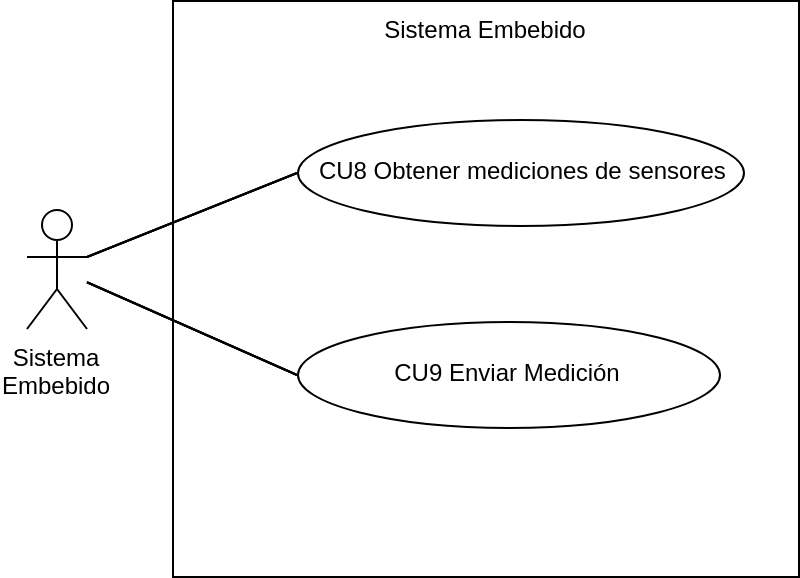
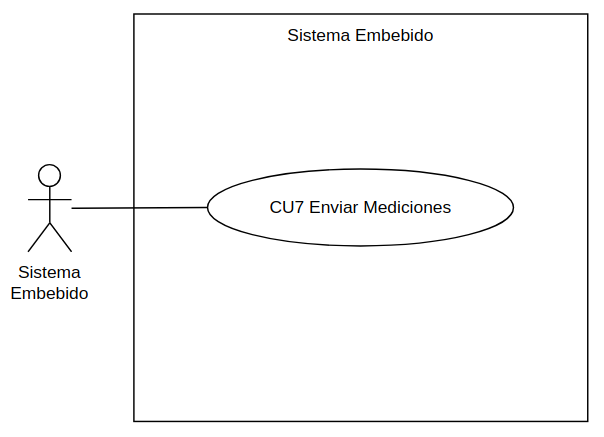
Actualizando documentación de módulo de comunicación 3G/4G y Análisis de aplicación móvil con cu e interfaces

diff --git a/C2-DT/ModeloComportamiento/AplicacionMovil/cu6/cu.tex b/C2-DT/ModeloComportamiento/AplicacionMovil/cu6/cu.tex
@@ -1,6 +1,6 @@
 \begin{UseCase}{CU6}{Consultar registros de signos vitales}
 	{	
-		Este caso de uso permite al \hyperlink{actor:usuario}{Usuario} eliminar la información registrada de un paciente. 		 
+		Este caso de uso permite al \hyperlink{actor:usuario}{Usuario} consultar el historial de mediciones de signos vitales registrados para un paciente en un tiempo determinado.
 	}
 \UCccitem{Versión}{0.1}
 \UCccsection{Administración de Requerimientos}
@@ -25,7 +25,7 @@
 %-------------------------------------------------------------------
 	\UCsection{Atributos}
 	\UCitem{Actor(es)}{\hyperlink{actor:usuario}{Usuario}.}
-		\UCitem{Propósito}{Proporcionar un mecanismo que le permita al \hyperlink{actor:usuario}{Usuario} eliminar un paciente previamente registrado.}
+		\UCitem{Propósito}{Proporcionar un mecanismo que le permita al \hyperlink{actor:usuario}{Usuario} consultat el historial de mediciones de un paciente.}
 	\UCitem{Entradas}{
 		\begin{UClist}
 			\UCli Ninguna.
@@ -33,7 +33,7 @@
 	}
 	\UCitem{Salidas}{
 		\begin{UClist}
-			\UCli \cdtIdRef{MSG1}{Operación exitosa}: Se muestra en la pantalla \cdtIdRef{IU1}{Consultar pacientes} indicando al actor que la información del paciente se eliminó exitosamente.
+			\UCli Tabla que muestra Fecha, hora, valor de temperatura y valor de frecuencia cardíaca de cada medición registrada del paciente.
 		\end{UClist}
 		
 	}
@@ -45,8 +45,7 @@
 	
 	\UCitem{Postcondiciones}{
 		\begin{UClist}
-			\UCli La información del paciente seleccionado será eliminada.
-			\UCli El actor no podrá solicitar más mediciones de signos vitales para el paciente eliminado.
+			\UCli Ninguna
 		\end{UClist}
 	}
 
@@ -58,24 +57,20 @@
 	
 	\UCitem{Errores}{
 		\begin{UClist}
-			\UCli Ninguno.
+			\UCli Mensaje \cdtIdRef{MSG7}{No hay registros}. Se muestra en la pantalla indicando al actor que no existe información sobre el paciente.
 		\end{UClist}
 	}
 	\UCitem{Tipo}{Terciario, extiende del caso de uso \cdtIdRef{CU3}{Consultar información del paciente}.}
 \end{UseCase}
 
 \begin{UCtrayectoria}
-	\UCpaso[\UCactor] Da clic en el icono \btnEliminar{} de la pantalla \cdtIdRef{IU3}{Consultar información del paciente}.
-	\UCpaso[\UCsist] \label{cu5:obtieneNombre}Obtiene el nombre del paciente que se requiere eliminar.
-	\UCpaso[\UCsist] Muestra el mensaje \cdtIdRef{MSG6}{Eliminar elemento} en la pantalla \cdtIdRef{CU3}{Consultar información del paciente} con los siguientes parámetros: DETERMINADO ELEMENTO: {\em al paciente} y VALOR: nombre del paciente obtenido en el paso \ref{cu5:obtieneNombre} (¿Desea eliminar al paciente Carlos Granados?)
-	\UCpaso[\UCactor] Selecciona la opción \cdtButton{Sí} del mensaje. \refTray{A}
-	\UCpaso[\UCsist] Elimina la información registrada del paciente.
-	\UCpaso[\UCsist] Muestra el mensaje \cdtIdRef{MSG1}{Operación exitosa} en la pantalla \cdtIdRef{IU1}{Consultar pacientes} indicando al actor que la eliminación se realizó correctamente.
+	\UCpaso[\UCactor] Da clic en el icono \btnMonitoreo{} de la pantalla \cdtIdRef{IU3}{Consultar información del paciente}.
+	\UCpaso[\UCsist] \label{cu6:ObtieneMediciones}Obtiene la fecha, hora, valor de temperatura y valor de frecuencia cardíaca de cada medición registrada para el paciente seleccionado. \refTray{A}
+	\UCpaso[\UCsist] Muestra la pantalla \cdtIdRef{IU6}{Consultar registros de signos vitales} con la tabla Historial de mediciones registradas y lo valores obtenidos en el paso \ref{cu6:ObtieneMediciones}.
 \end{UCtrayectoria}
 
 
 %-----------------------------------------------------------
-\begin{UCtrayectoriaA}[Fin del caso de uso]{A}{El actor no confirma la eliminación del paciente.}
-	\UCpaso[\UCactor] Selecciona la opción \cdtButton{No} del mensaje.
-	\UCpaso[\UCsist] Muestra la pantalla \cdtIdRef{CU3}{Consultar información del paciente}.
+\begin{UCtrayectoriaA}[Fin del caso de uso]{A}{No existen mediciones registradas del paciente.}
+	\UCpaso[\UCsist] Muestra el mensaje \cdtIdRef{MSG7}{No hay registros}.
 \end{UCtrayectoriaA}

diff --git a/C2-DT/Analisis/modulo34G.tex b/C2-DT/Analisis/modulo34G.tex
@@ -1,0 +1,76 @@
+%========ANÁLISIS DEL MODULO DE COMUNICACIÓN=======
+
+\subsection{Módulo de comunicación 3G/4G}
+El módulo de comunicación permitirá el envío de mensajes SMS con la información proporcionada por el microcontrolador. \\
+
+Para determinar el módulo a utilizar, se consideraron únicamente módulos con el chip integrado ya que proporciona la ventaja de contener todos los elementos que éste requiere. Además al requerir únicamente del envío de SMS se descartaron varios modelos encontrados. \\
+
+Finalmente se realizó una tabla comparativa entre los módulos de la empresa MikroElektronika que corresponden a los requerimientos buscados. \\
+
+Las principales características a considerar para la selección del módulo fueron la banda soportada y las interfaces de comunicación que ofrece. Adicionalmente se consideraron el voltaje y precio. \\
+
+En la Tabla \ref{analisis:moduloGSM} se muestran los datos de los diferentes módulos de comunicación GSM para cada característica.\\
+
+\begin{table}[htbp]
+	\begin{center}
+		\scalebox{0.93}[0.95]{
+		\begin{tabular}{|c|c|c|c|c|c|}
+			\hline
+			%			\rowcolor{colorSecundario}
+			%			\color{green}
+			\thead{Modelo}&\thead{Fabricante}&\thead{Frecuencia de banda\\(MHz)}&\thead{Interfaces}&\thead{Voltaje \\ (V)}&\thead{Precio\\(USD)}\\
+			\hline
+			\hline
+			GL865-QUAD & Telit&850/900/1800/1900&UART&3.22 - 4.5&49.0\\
+			\hline
+			M95 & Quectel&850/900/1800/1900&GPIO/UART&3.3 - 4.6& 44.0\\
+			\hline
+			SIM800H & SIMcom&850/900/1800/1900&GPIO/UART&3.4 - 4.4&57.0\\
+			\hline
+			SARA-G3 & ublox&900/1800&GPIO/UART/USB&4&74.0\\
+			\hline
+			LARA-R202& ublox&900/1800&I2C/UART/USB&3.3 - 4.4&74.0\\
+			\hline
+		\end{tabular}}
+		\caption{Comparativa de módulos.}
+		\label{analisis:moduloGSM}
+	\end{center}
+\end{table}
+	
+Debido a que para realizar pruebas se utilizará una tarjeta SIM de algún operador celular del país se consideraron las operadoras más utilizadas a nivel nacional con las frecuencias de operación de sus bandas. \cite{garrido2018} \\ 
+
+Al no requerir de una gran velocidad para el envío de datos se consideró usar la red 3G.\\
+
+En la Tabla \ref{analisis:moduloGSMFrecuencias} se muestran los datos de las diferentes operadoras.\\
+
+\begin{table}[htbp]
+	\begin{center}
+		\scalebox{0.93}[0.95]{
+			\begin{tabular}{|c|c|}
+				\hline
+				\thead{Operador}&\thead{Frecuencia para 3G (MHz)}\\
+				\hline
+				\hline
+				AT\&T (Iusacell y Nextel) & 850/1700/1900/2100\\
+				\hline
+				Movistar & 850/1900\\
+				\hline
+				Telcel & 850/1900\\
+				\hline
+			\end{tabular}
+		}
+		\caption{Frecuencias de banda de operadoras celulares.}
+		\label{analisis:moduloGSMFrecuencias}
+	\end{center}
+\end{table}
+
+Por las características que presenta y el soporte que tiene en la red 3G y 4G nacional, se decidió utilizar el módulo \textbf{4G LTE-AT\&T CLICK} con el chip \textbf{LARA-R202} de ublox, mostrado en la figura \ref{fig:AnalisisGSM}.\\
+
+		\begin{figure}[htbp!]
+			\centering
+			\fbox{\includegraphics[width=0.6\textwidth]{Analisis/imagenes/4g-lte.png}}
+			\caption{4G LTE-AT\&T CLICK}
+			\label{fig:AnalisisGSM}
+		\end{figure}
+		
+		\clearpage

diff --git a/C2-DT/analisis.tex b/C2-DT/analisis.tex
@@ -111,12 +111,12 @@
 %=========================================================
 \part{Diseño de la Estructura del Sistema}
 \cfinput{DisenoEstructura/disenoEstructura}
-\chapter{Modelo de Negocio}\label{chp:modeloNegocios}
-\cfinput{ModeloNegocios/modelo}
-\chapter{Modelo de Comportamiento}
-\cfinput{ModeloComportamiento/comportamiento}
-\chapter{Modelo de Interacción con el Usuario}
-\cfinput{ModeloInteraccion/interaccion}
+%\chapter{Modelo de Negocio}\label{chp:modeloNegocios}
+%\cfinput{ModeloNegocios/modelo}
+%\chapter{Modelo de Comportamiento}
+%\cfinput{ModeloComportamiento/comportamiento}
+%\chapter{Modelo de Interacción con el Usuario}
+%\cfinput{ModeloInteraccion/interaccion}
 
 
 %=========================================================
@@ -125,51 +125,19 @@
 \cfinput{AvancesPruebas/pruebas}
 
 
-
-
 %=========================================================
 
-
+\appendix
+\part{Análisis de aplicación móvil}
+%\chapter{Análisis de aplicación móvil}\label{aped.A}
+\chapter{Modelo de Negocio}\label{chp:modeloNegocios}
+\cfinput{ModeloNegocios/modelo}
+\chapter{Modelo de Comportamiento}
+\cfinput{ModeloComportamiento/comportamiento}
+\chapter{Modelo de Interacción con el Usuario}
+\cfinput{ModeloInteraccion/interaccion}
 
 %=========================================================
-%\chapter{Modelo de negocio}\label{chp:modeloNegocios}
-%    \cfinput{ModeloNegocios/modelo}
-%%    \cfinput{ModeloNegocios/estructura}
-%%    \cfinput{ModeloNegocios/registro}
-%%    \cfinput{ModeloNegocios/informacion-base}
-%%    \cfinput{ModeloNegocios/plan-accion}
-%%    \cfinput{ModeloNegocios/seguimiento}
-%%    \cfinput{ModeloNegocios/reglas}
-%%    \cfinput{ModeloNegocios/indicadores-agua}
-%%    \cfinput{ModeloNegocios/indicadores-residuos}
-%%    \cfinput{ModeloNegocios/indicadores-energia}
-%%    \cfinput{ModeloNegocios/indicadores-biodiversidad}
-%%    \cfinput{ModeloNegocios/indicadores-ambienteEscolar}
-%%    \cfinput{ModeloNegocios/indicadores-consumoResponsable}
-%    
-%===========================================================
-%\chapter{Modelo de comportamiento}\label{chp:modeloComportamiento}
-%  \cfinput{ModeloComportamiento/comportamiento}
-
-%===========================================================
-    	
-%\chapter{Modelo de interacción con el usuario}\label{chp:modeloInteraccionUsuario}
-%\cfinput{ModeloInteraccion/interaccion}
-
-%---------------------------------------------------------------------
-%\section{Interfaces del subsistema: Registro de escuelas}
-
-%---------------------------------------------------------------------
-
-%\section{Diseño de mensajes}
-% \cfinput{ModeloInteraccion/mensajes}
-%
-%\setlength{\biblabelsep}{0.5em}
-%\newcounter{MyBibCount}
-%\makeatletter
-%\renewcommand{\@biblabel}[1]{\stepcounter{MyBibCount}[\theMyBibCount]}
-%\makeatother
-%
 \newpage
 %%% Referencias
 \renewcommand{\bibname}{Referencias}

diff --git a/C2-DT/ModeloComportamiento/AplicacionMovil/comportamiento.tex b/C2-DT/ModeloComportamiento/AplicacionMovil/comportamiento.tex
@@ -1,6 +1,6 @@
 
 \section{Casos de uso del módulo Aplicación Móvil}
-En esta sección se describen los casos de uso referentes a el funcionamiento del sistema embebido. \bigskip
+En esta sección se describen los casos de uso referentes al funcionamiento de la aplicación móvil. \bigskip
 
      \begin{objetivos}[Elementos de un caso de uso]
 	\item {\bf Resumen:} Descripción textual del caso de uso.
@@ -21,7 +21,27 @@ En esta sección se describen los casos de uso referentes a el funcionamiento de
 	\cfinput{ModeloComportamiento/AplicacionMovil/cu3/cu}
 	\cfinput{ModeloComportamiento/AplicacionMovil/cu4/cu}
 	\cfinput{ModeloComportamiento/AplicacionMovil/cu5/cu}
-%	\cfinput{ModeloComportamiento/AplicacionMovil/cu6/cu}
+	\cfinput{ModeloComportamiento/AplicacionMovil/cu6/cu}
 %	\cfinput{ModeloComportamiento/AplicacionMovil/cu7/cu}
 
 %===========================================================
+\pagebreak
+\section{Casos de uso del módulo Sistema Embebido}
+En esta sección se describen los casos de uso referentes al funcionamiento del sistema embebido. \bigskip
+
+\begin{objetivos}[Elementos de un caso de uso]
+	\item {\bf Resumen:} Descripción textual del caso de uso.
+	\item {\bf Actores:} Lista de los que intervienen en el caso de uso.
+	\item {\bf Propósito:} Una breve descripción del objetivo que busca el actor al ejecutar el caso de uso.
+	\item {\bf Entradas:} Lista de los datos de entrada requeridos durante la ejecución del caso de uso.
+	\item {\bf Salidas:} Lista de los datos de salida que presenta el sistema durante la ejecución del caso de uso.
+	\item {\bf Precondiciones:} Descripción de las operaciones o condiciones que se deben cumplir previamente para que el caso de uso pueda ejecutarse correctamente.
+	\item {\bf Postcondiciones:} Lista de los cambios que ocurrirán en el sistema después de la ejecución del caso de uso y de las consecuencias en el sistema.
+	\item {\bf Reglas de negocio:} Lista de las reglas que describen, limitan o controlan algún aspecto del negocio del caso de uso.
+	\item {\bf Errores:} Lista de los posibles errores que pueden surgir durante la ejecución del caso de uso.
+	\item {\bf Trayectorias:} Secuencia de los pasos que ejecutará el caso de uso.
+\end{objetivos}
+
+%================CASOS DE USO =============
+
+	\cfinput{ModeloComportamiento/SistemaEmbebido/cu9/cu}

diff --git a/C2-DT/ModeloComportamiento/SistemaEmbebido/cu9/cu.tex b/C2-DT/ModeloComportamiento/SistemaEmbebido/cu9/cu.tex
@@ -1,7 +1,11 @@
-\begin{UseCase}{CU9}{Enviar medición}
+\begin{UseCase}{CU7}{Enviar mediciones}
 	{	
 
-		 
+		 Este casos de uso permite al sistema enviar un informe de los valores de los signos vitales de un paciente mediante un mensaje SMS a al número celular de la persona interesada en el monitoreo. El envió de las mediciones puede realizarse en dos momentos: 
+		 \begin{enumerate}
+		 	\item Cuando se sobrepasa uno de los umbrales establecidos para el valor de temperatura o frecuencia cardíaca.
+		 	\item Cuando se cumple el tiempo definido de envío de muestras.
+		 \end{enumerate}
 		 
 	}
 \UCccitem{Versión}{0.1}
@@ -29,18 +33,21 @@
 	\UCitem{Actor(es)}{\cdtRef{Actor:sistema}{Sistema}}
 	\UCitem{Entradas}{
 		\begin{UClist}
-			\UCli Ninguno
+			\UCli Valores analógicos de frecuencia y temperatura del paciente.
 		\end{UClist}	
 	}
 	\UCitem{Salidas}{
 		\begin{UClist}
-			\UCli ...
+			\UCli Valor de medición de temperatura y frecuencia cardíaca del paciente.
+			\UCli Fecha y hora de envío del mensaje SMS.
+			\UCli Mensaje SMS con la información obtenida.
 		\end{UClist}
 		
 	}
 	\UCitem{Precondiciones}{
 		\begin{UClist}
-			\UCli ...
+			\UCli Que se haya cumplido el tiempo definido de envío de mensaje con mediciones.
+			\UCli Que uno de los valores de temperatura o frecuencia cardíaca se encuentre fuera de los umbrales establecidos.
 		\end{UClist}
 	}
 	

diff --git a/C2-DT/ModeloComportamiento/AplicacionMovil/cu6/iu.tex b/C2-DT/ModeloComportamiento/AplicacionMovil/cu6/iu.tex
@@ -1,0 +1,23 @@
+\subsection{IU6 Consultar registros de signos vitales}
+
+\subsubsection{Objetivo}
+	
+Esta pantalla permite al \hyperlink{actor:usuario}{Usuario} de la aplicación móvil visualizar el historial del registro de las mediciones de signos vitales realizadas a un paciente.
+
+\subsubsection{Diseño}
+En la figura \ref{IU6} se muestra la pantalla ''Consultar registros de signos vitales'', por medio de la cual el usuario podrá visualizar el historial de los valores registrados de cada una de las mediciones realizadas a un paciente.\\
+
+La información de las mediciones se muestra en la tabla \textbf{Historial de mediciones registradas}, la cual está compuesta de las siguientes columnas:
+\begin{itemize}
+	\item Fecha.
+	\item Hora.
+	\item Temperatura.
+	\item Frecuencia.
+\end{itemize}
+
+Los valores se muestran ordenados de forma descendente con base en la fecha y posteriormente en la hora de medición.
+
+    
+ \IUfig[.6]{../ModeloComportamiento/AplicacionMovil/cu6/iu6.png}{IU6}{Consultar registros de signos vitales}
+
+\clearpage

diff --git a/C2-DT/ModeloComportamiento/comportamientoModulos.tex b/C2-DT/ModeloComportamiento/comportamientoModulos.tex
@@ -4,7 +4,7 @@ La figura \ref{fig:casosUso:Aplicacion} muestra los casos de uso que integran la
 %
 \begin{figure}[htpb!]
 	\begin{center}
-		\fbox{\includegraphics[width=0.9\textwidth]{ModeloComportamiento/imagenes/CasosUso_Usuario.png}}
+		\fbox{\includegraphics[width=1\textwidth]{ModeloComportamiento/imagenes/CasosUso_Usuario.png}}
 		\caption{Diagrama de casos de uso del módulo Aplicación Móvil. \label{fig:casosUso:Aplicacion}}
 	\end{center}
 \end{figure}
@@ -16,7 +16,7 @@ La figura \ref{fig:casosUso:sistema} muestra los casos de uso que integran la fu
 
 \begin{figure}[htpb!]
 	\begin{center}
-		\fbox{\includegraphics[width=0.4\textwidth]{ModeloComportamiento/imagenes/CUSistema.png}}
+		\fbox{\includegraphics[width=0.7\textwidth]{ModeloComportamiento/imagenes/CUSistema.png}}
 		\caption{Diagrama de casos de uso del módulo Sistema Embebido. \label{fig:casosUso:sistema}}
 	\end{center}
 \end{figure}

diff --git a/C2-DT/ModeloInteraccion/mensajes.tex b/C2-DT/ModeloInteraccion/mensajes.tex
@@ -115,4 +115,11 @@
 
 \end{mensaje}
 
-%===========================  MSG ==================================
+%===========================  MSG7 ==================================
+\begin{mensaje}{MSG7}{No hay registros}{Error}
+	\item[Ubicación:] Centrado en pantalla o componente.
+	\item[Objetivo:] Notificar al actor que no existe información sobre el paciente.
+	\item[Redacción:] No hay registros.
+	\item[Referenciado por:] \cdtIdRef{CU6}{Consultar registros de signos vitales}
+	
+\end{mensaje}

diff --git a/C2-DT/Analisis/analisis.tex b/C2-DT/Analisis/analisis.tex
@@ -2,6 +2,7 @@
 \cfinput{Analisis/requerimientos}
 \cfinput{Analisis/sensorTemperatura}
 \cfinput{Analisis/sensorPulso}
-\cfinput{Analisis/moduloGSM}
+%\cfinput{Analisis/moduloGSM}
+\cfinput{Analisis/modulo34G}
 \cfinput{Analisis/micro}
 \cfinput{Analisis/mobileOS}

diff --git a/C2-DT/ModeloInteraccion/interfaces.tex b/C2-DT/ModeloInteraccion/interfaces.tex
@@ -4,3 +4,4 @@
 	\cfinput{ModeloComportamiento/AplicacionMovil/cu2/iu}
 	\cfinput{ModeloComportamiento/AplicacionMovil/cu3/iu}
 	\cfinput{ModeloComportamiento/AplicacionMovil/cu4/iu}
+	\cfinput{ModeloComportamiento/AplicacionMovil/cu6/iu}
